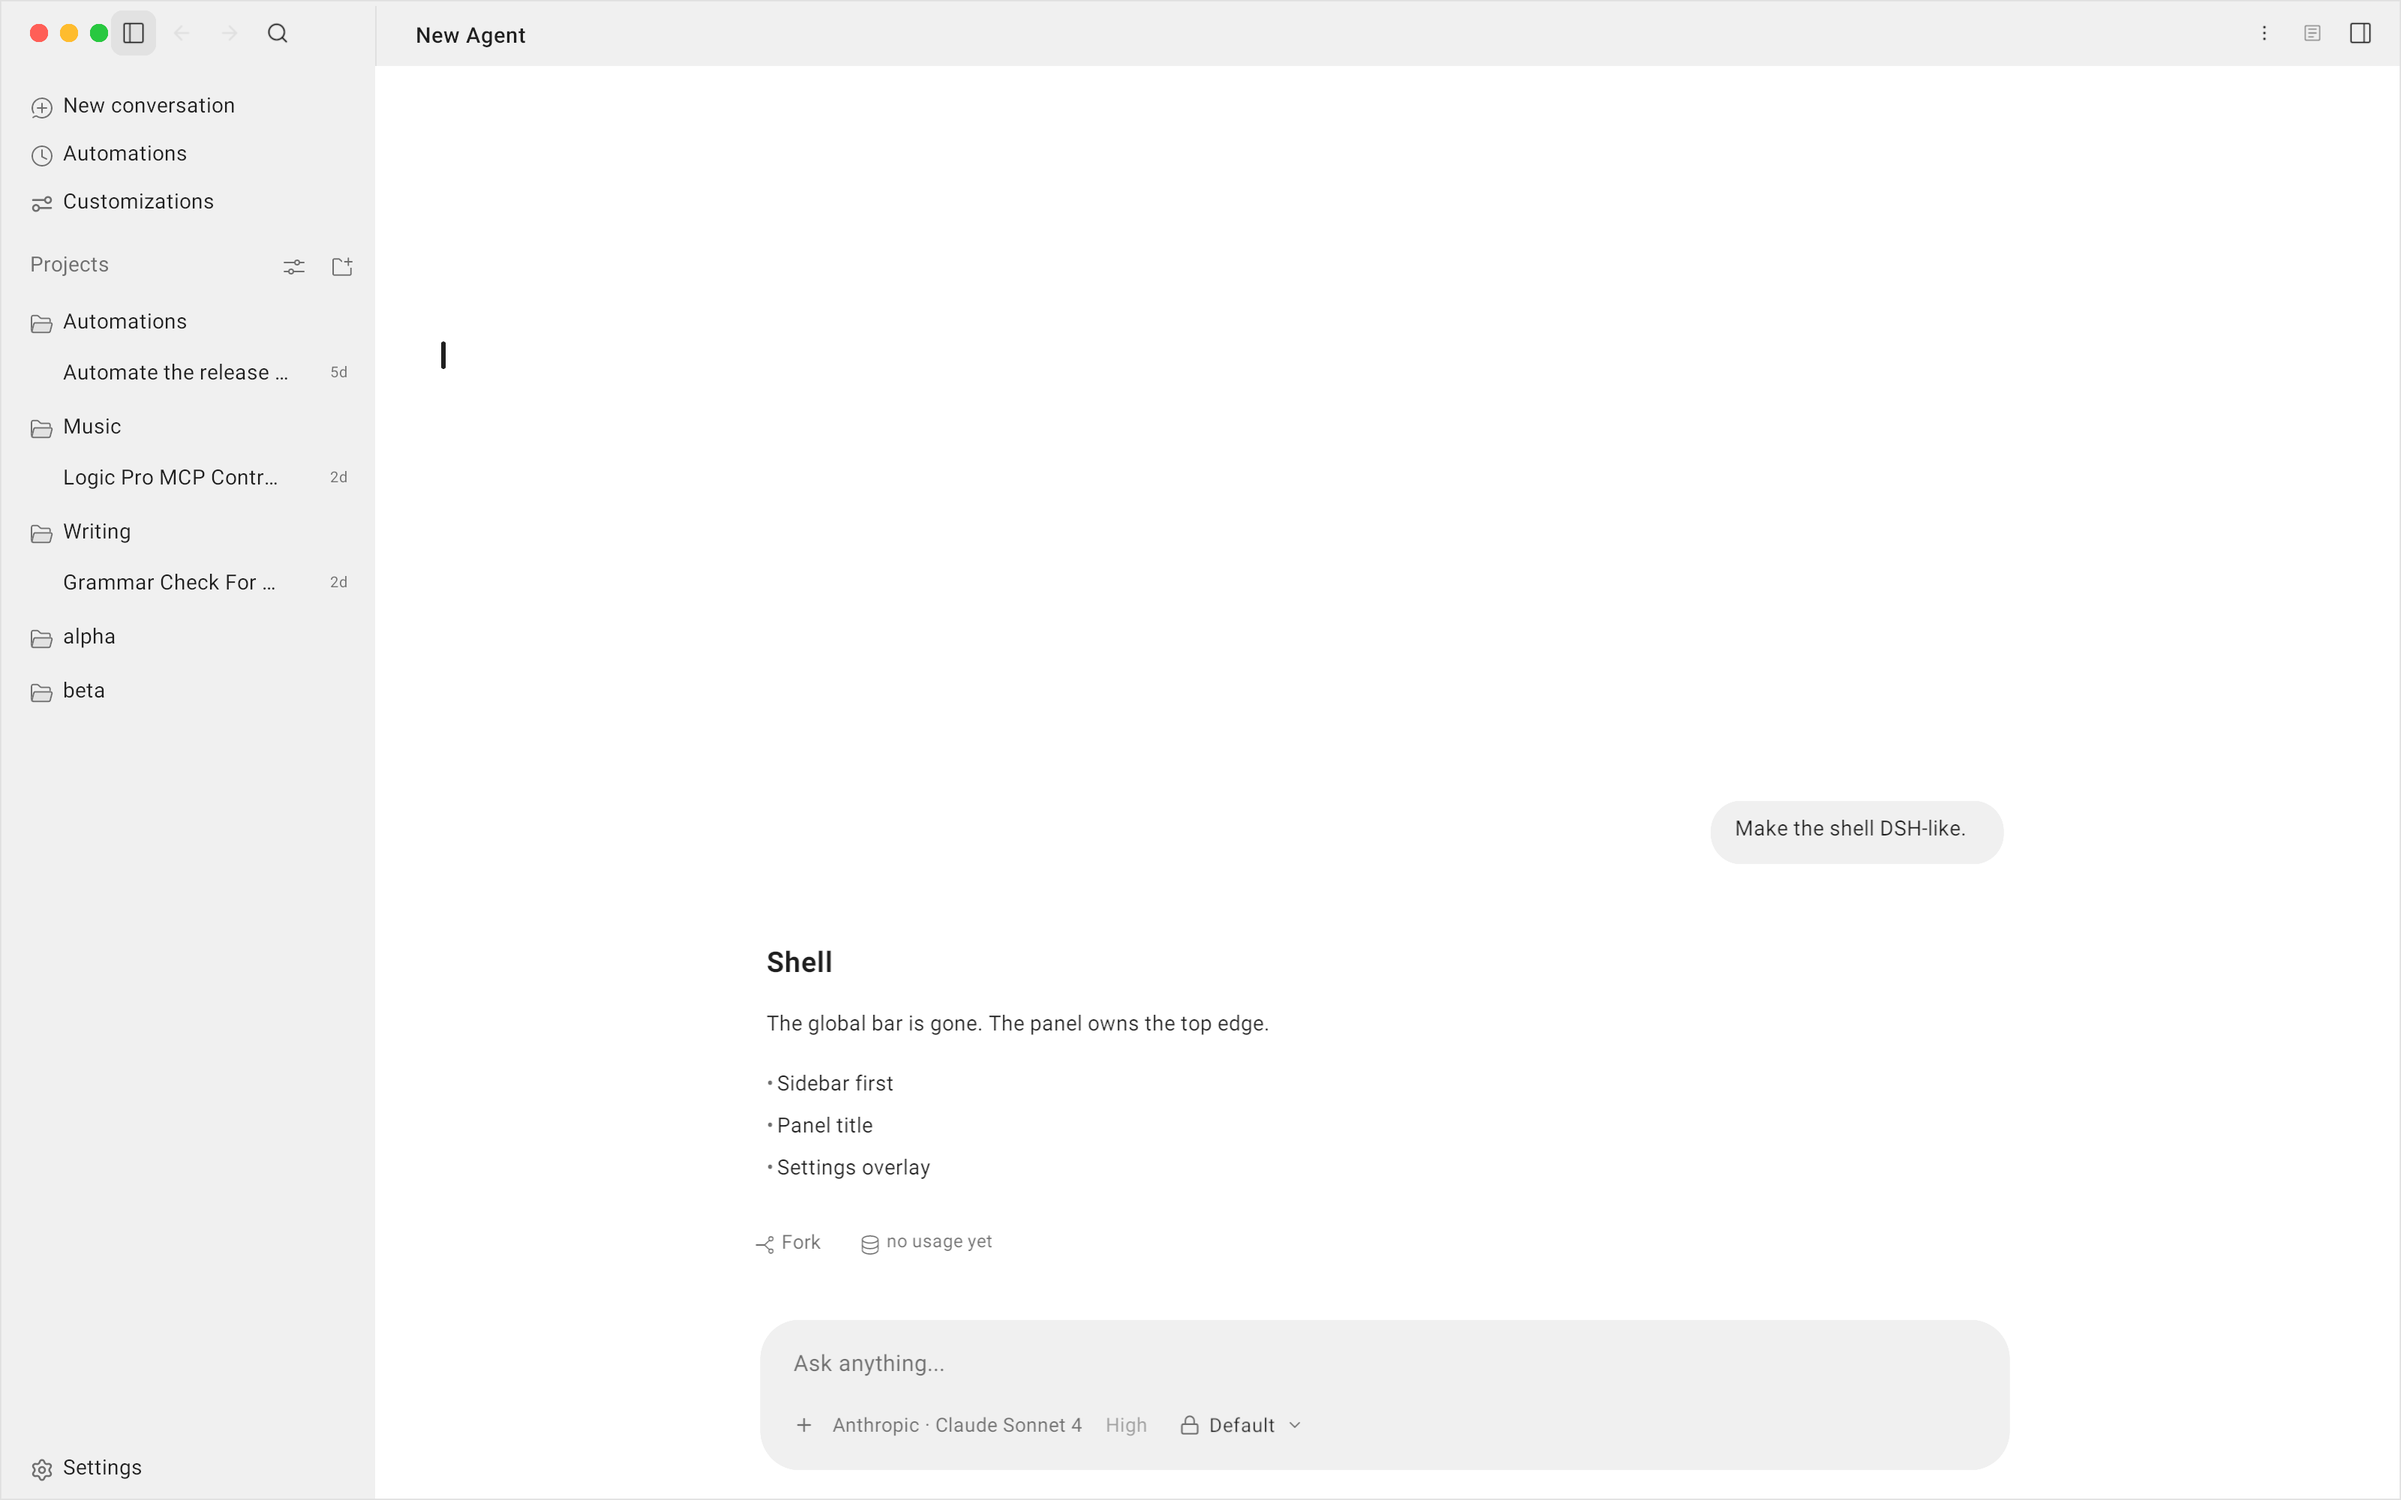
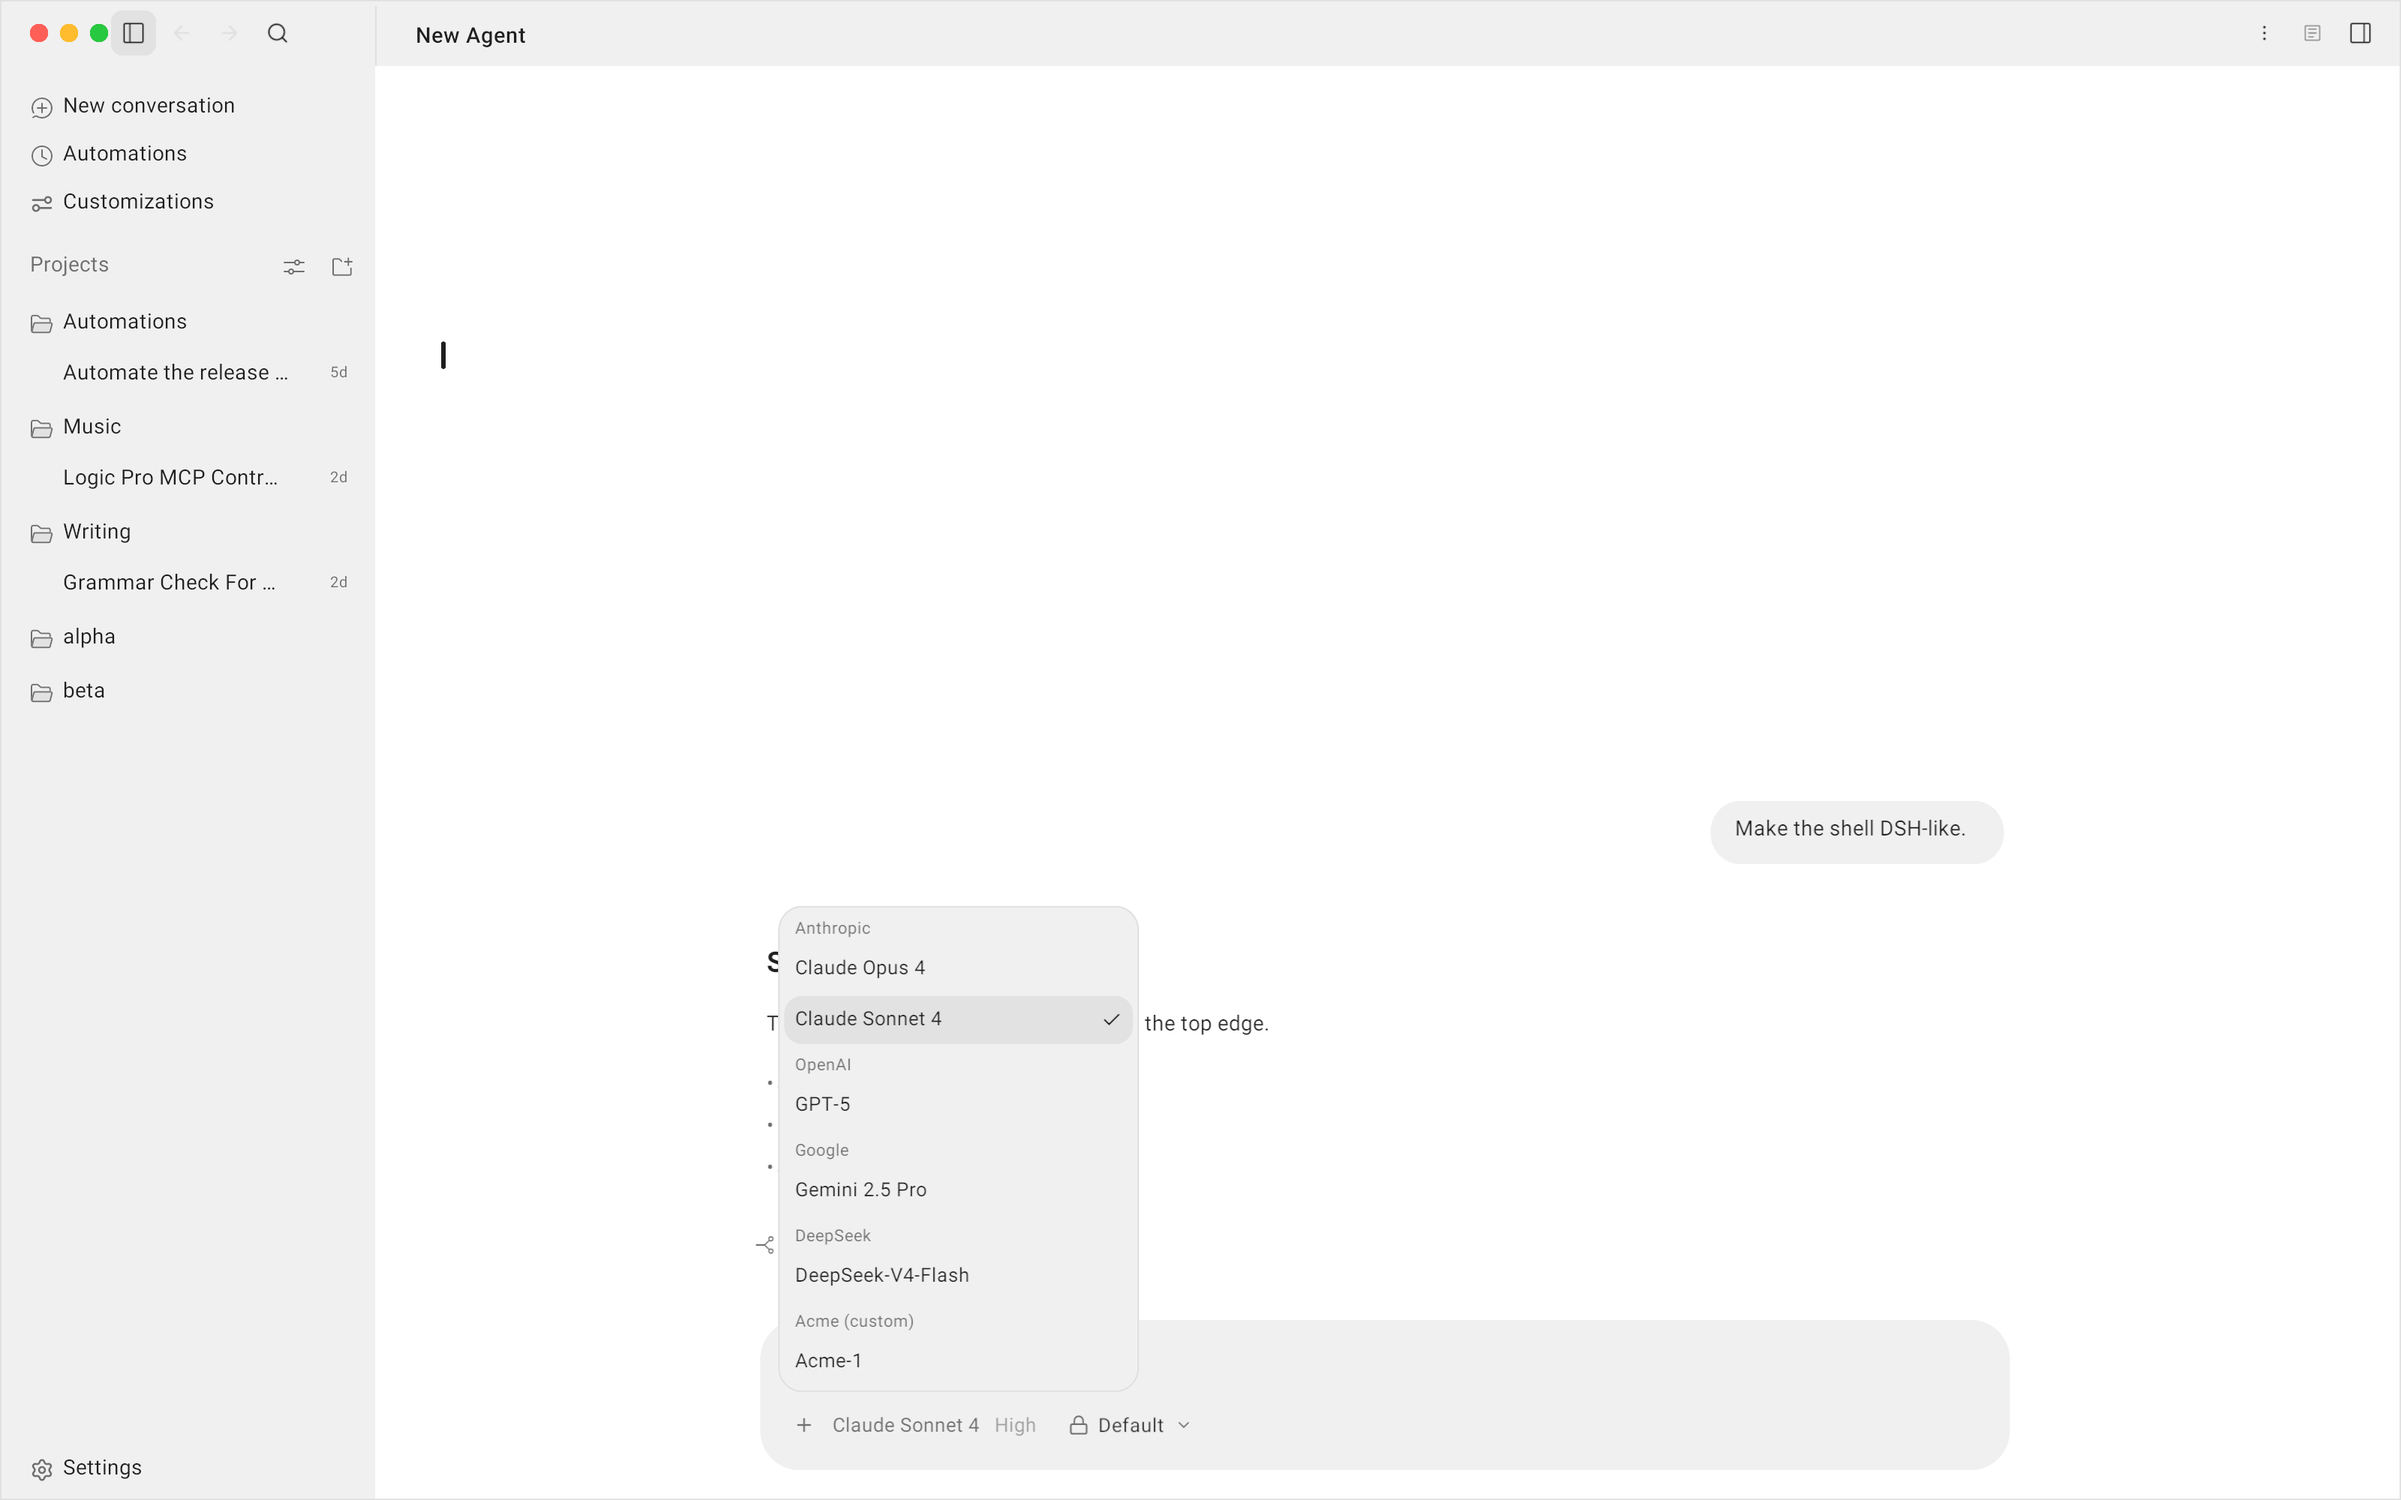
feat(model): name-only chip and grouped T3 integration selector
453 — the composer chip shows only the model's display name; provider prefixes
are gone.

454/455 — the selector lists Anthropic, OpenAI, Google and DeepSeek groups from
the real catalog plus the configured custom providers/harnesses. An
unconfigured built-in gets one honest "Not configured · Configure" row whose
selection opens Settings → Models instead of inventing models. Selection still
routes provider/model/effort per conversation and persists.

456 — removed the legacy flat model menu wiring from the composer; only the
grouped tray can open.

457/458 — committed real renders of the OPEN grouped selector (dark+light) with
Anthropic/OpenAI/Google/DeepSeek/custom groups and the DeepSeek model visible;
tests cover name-only chip, unconfigured status, group catalogs and selection
callbacks. Preview state now opens directly on the group pane so the proof is
visible.

Tests: goble-ui 984 passed / 0 failed / 0 ignored; goble-app 922 passed /
8 documented baseline failures / 0 ignored.

Changed region(s): [[0.3125, 0.62, 0.4688, 0.868], [0.3438, 0.899, 0.5312, 0.961]]

diff --git a/apps/desktop/src/ui/chat/agent.rs b/apps/desktop/src/ui/chat/agent.rs
@@ -373,30 +373,42 @@ pub fn build_agent_chat(
     let on_cmd_enter = actions.on_cmd_enter.clone();
     let on_send_to_cloud = actions.on_send_to_cloud.clone();
 
-    // Model dropdown: one item per available model; the current one is marked
-    // selected. Selecting an item maps the index back to a model name.
-    let model_items = state
-        .models
-        .iter()
-        .map(|name| {
-            let mut item = PopupMenuItem::new(name.clone()).with_icon("cpu");
-            if name == &controls.model {
-                item = item.selected();
-            }
-            item
-        })
-        .collect::<Vec<_>>();
-    let on_model_select = actions.on_model_select.clone();
-    let models_for_select = state.models.clone();
-    let model_menu_open = controls.model_menu_open.clone();
-    let model_index = controls.model_index.clone();
-
     // The tray the same control opens: the models a pane can run, grouped under
     // the harness that owns each one. The groups are recognition — a mark and a
     // name over the rows that harness runs — and a pick is always a model. The
     // rows are the desktop's catalog, so the tray lists what a turn can run.
-    let tray_harnesses: Vec<ModelTrayHarness> = state
-        .model_groups
+    // 454: every T3 integration is a group. A configured integration lists its
+    // real catalog models; an unconfigured one carries one honest Configure
+    // status row instead of invented models.
+    let mut groups = state.model_groups.clone();
+    for (harness, label) in [
+        ("anthropic", "Anthropic"),
+        ("openai", "OpenAI"),
+        ("google", "Google"),
+        ("deepseek", "DeepSeek"),
+    ] {
+        if !groups.iter().any(|group| group.harness == harness) {
+            groups.push(goble_desktop_service::ModelGroup {
+                harness: harness.to_string(),
+                label: label.to_string(),
+                models: vec![goble_harness_types::HarnessModel::new(
+                    format!("__configure__:{harness}"),
+                    "Not configured · Configure",
+                )],
+            });
+        }
+    }
+    // T3's integration order first; custom providers/harnesses keep their own
+    // order after the four built-ins.
+    let order = |harness: &str| match harness {
+        "anthropic" => 0,
+        "openai" => 1,
+        "google" => 2,
+        "deepseek" => 3,
+        _ => 4,
+    };
+    groups.sort_by_key(|group| order(&group.harness));
+    let tray_harnesses: Vec<ModelTrayHarness> = groups
         .iter()
         .map(|group| {
             ModelTrayHarness::new(group.harness.clone(), group.label.clone()).with_models(
@@ -413,8 +425,7 @@ pub fn build_agent_chat(
         .collect();
     // What a pick resolves to: the model ids in the order the tray draws them,
     // since the tray reports the row it took rather than the id behind it.
-    let tray_model_ids: Vec<String> = state
-        .model_groups
+    let tray_model_ids: Vec<String> = groups
         .iter()
         .flat_map(|group| group.models.iter().map(|model| model.id.clone()))
         .collect();
@@ -563,11 +574,6 @@ pub fn build_agent_chat(
         .with_on_dismiss_queued(in_pane(&on_pane_activate, pane_id, move || {
             (on_dismiss_queued.borrow_mut())()
         }))
-        .with_composer_model_menu(model_items, model_menu_open, model_index, move |index| {
-            if let Some(name) = models_for_select.get(index) {
-                (on_model_select.borrow_mut())(pane_id, name.clone());
-            }
-        })
         // The submit paths all resolve the pane through the active-pane
         // contract, so the pane whose composer was pressed becomes the active
         // one first: a click on a background pane's send sends *its* draft to
@@ -647,6 +653,7 @@ pub fn build_agent_chat(
         {
             let on_model_select = actions.on_model_select.clone();
             let on_thinking_select = actions.on_thinking_select.clone();
+            let on_configure = actions.on_open_models_settings.clone();
             let tray = ComposerModelTray::new(
                 tray_harnesses.clone(),
                 controls.model_tray_state.clone(),
@@ -655,7 +662,11 @@ pub fn build_agent_chat(
             .with_current(controls.model.clone(), controls.thinking.clone())
             .with_on_select_model(move |row| {
                 if let Some(id) = tray_model_ids.get(row) {
-                    (on_model_select.borrow_mut())(pane_id, id.clone());
+                    if id.starts_with("__configure__:") {
+                        (on_configure.borrow_mut())();
+                    } else {
+                        (on_model_select.borrow_mut())(pane_id, id.clone());
+                    }
                 }
             })
             .with_on_select_level(move |level| {

diff --git a/crates/goble-ui/src/elements/chat_composer/tests.rs b/crates/goble-ui/src/elements/chat_composer/tests.rs
@@ -3253,6 +3253,48 @@ fn the_model_card_reports_the_model_and_level_the_host_wires() {
     assert!(!*open.borrow(), "and the pick closes the card");
 }
 
+/// 454/457: an integration with no key is an honest Configure status row, not
+/// an invented model.
+#[test]
+fn an_unconfigured_integration_draws_its_honest_status_row() {
+    use crate::elements::{
+        ComposerModelTray, ModelTrayHarness, ModelTrayModel, ModelTrayPane, ModelTrayState,
+    };
+
+    let app = AppContext::default();
+    let state = Rc::new(RefCell::new(ModelTrayState::default()));
+    {
+        let mut state = state.borrow_mut();
+        state.seeded = true;
+        state.pane = ModelTrayPane::Model;
+    }
+    let tray = ComposerModelTray::new(
+        vec![
+            ModelTrayHarness::new("anthropic", "Anthropic").with_models(vec![ModelTrayModel::new(
+                "__configure__:anthropic",
+                "Not configured · Configure",
+            )]),
+            ModelTrayHarness::new("openai", "OpenAI")
+                .with_models(vec![ModelTrayModel::new("gpt-5", "GPT-5")]),
+        ],
+        state,
+        Rc::new(RefCell::new(true)),
+    )
+    .with_current("gpt-5", "")
+    .with_on_select_model(|_| {});
+    let mut composer = ChatComposer::new()
+        .with_model_label("GPT-5")
+        .with_model_tray(tray);
+    let (_, commands) = paint_composer_in(&app, &mut composer, vec2f(900.0, 600.0));
+    let texts = drawn_texts(&commands);
+    for text in ["Anthropic", "Not configured · Configure", "OpenAI", "GPT-5"] {
+        assert!(
+            texts.iter().any(|drawn| drawn == text),
+            "{text:?}: {texts:?}"
+        );
+    }
+}
+
 /// The chip is DSH's model seat (`ModelSelect.module.css` `.trigger`): the
 /// catalogue's display name rather than the host's id, the effort beside it in
 /// the dimmer caption tone, no colour change when the card opens, and a chevron
@@ -3290,6 +3332,13 @@ fn the_model_chip_names_the_catalogue_model_and_captions_the_effort() {
         name,
         app.theme.color(ColorToken::Muted),
         "the model name is the label tone"
+    );
+    assert!(
+        !commands.iter().any(|command| matches!(
+            command,
+            RenderCommand::DrawText { text, .. } if text.contains("DeepSeek ·")
+        )),
+        "453: the chip shows only the model name, no provider prefix"
     );
     let effort = color_of("High").expect("the seat captions the effort");
     assert!(

diff --git a/apps/desktop/examples/shell_settings_preview.rs b/apps/desktop/examples/shell_settings_preview.rs
@@ -799,12 +799,32 @@ fn main() -> anyhow::Result<()> {
                             label: "Google".to_string(),
                             models: vec![HarnessModel::new("gemini-2.5-pro", "Gemini 2.5 Pro")],
                         },
+                        ModelGroup {
+                            harness: "deepseek".to_string(),
+                            label: "DeepSeek".to_string(),
+                            models: vec![HarnessModel::new(
+                                "deepseek-v4-flash",
+                                "DeepSeek-V4-Flash",
+                            )
+                            .with_thinking(vec!["low".into(), "high".into()])],
+                        },
+                        ModelGroup {
+                            harness: "acme".to_string(),
+                            label: "Acme (custom)".to_string(),
+                            models: vec![HarnessModel::new("acme-1", "Acme-1")],
+                        },
                     ];
                     let pane = s.active_pane_id;
                     s.selected_model = "claude-sonnet-4".to_string();
                     let controls = s.pane_controls_mut(pane);
                     controls.model = "claude-sonnet-4".to_string();
                     controls.thinking = "high".to_string();
+                    {
+                        let mut tray = controls.model_tray_state.borrow_mut();
+                        tray.seeded = true;
+                        tray.pane = goble_ui::elements::ModelTrayPane::Model;
+                        tray.row = 1;
+                    }
                     *controls.model_menu_open.borrow_mut() = true;
                     *controls.model_tray_open.borrow_mut() = true;
                 }

diff --git a/crates/goble-ui/src/elements/chat_composer/composer.rs b/crates/goble-ui/src/elements/chat_composer/composer.rs
@@ -1424,18 +1424,9 @@ impl ChatComposer {
                 .map(|model| model.name.clone())
                 .filter(|name| !name.trim().is_empty())
         });
-        let provider = self.model_tray.as_ref().and_then(|tray| {
-            tray.harnesses
-                .iter()
-                .find(|group| group.models.iter().any(|model| model.id == tray.model))
-                .map(|group| group.label.clone())
-                .filter(|name| !name.trim().is_empty())
-        });
+        // 453: just the model's display name — no provider/company prefix.
         let text = match catalogue_label {
-            Some(name) => match provider {
-                Some(provider) if !name.starts_with(&provider) => format!("{provider} · {name}"),
-                _ => name,
-            },
+            Some(name) => name,
             None if label.trim().is_empty() => MODEL_NOT_CONFIGURED.to_string(),
             None => label,
         };
